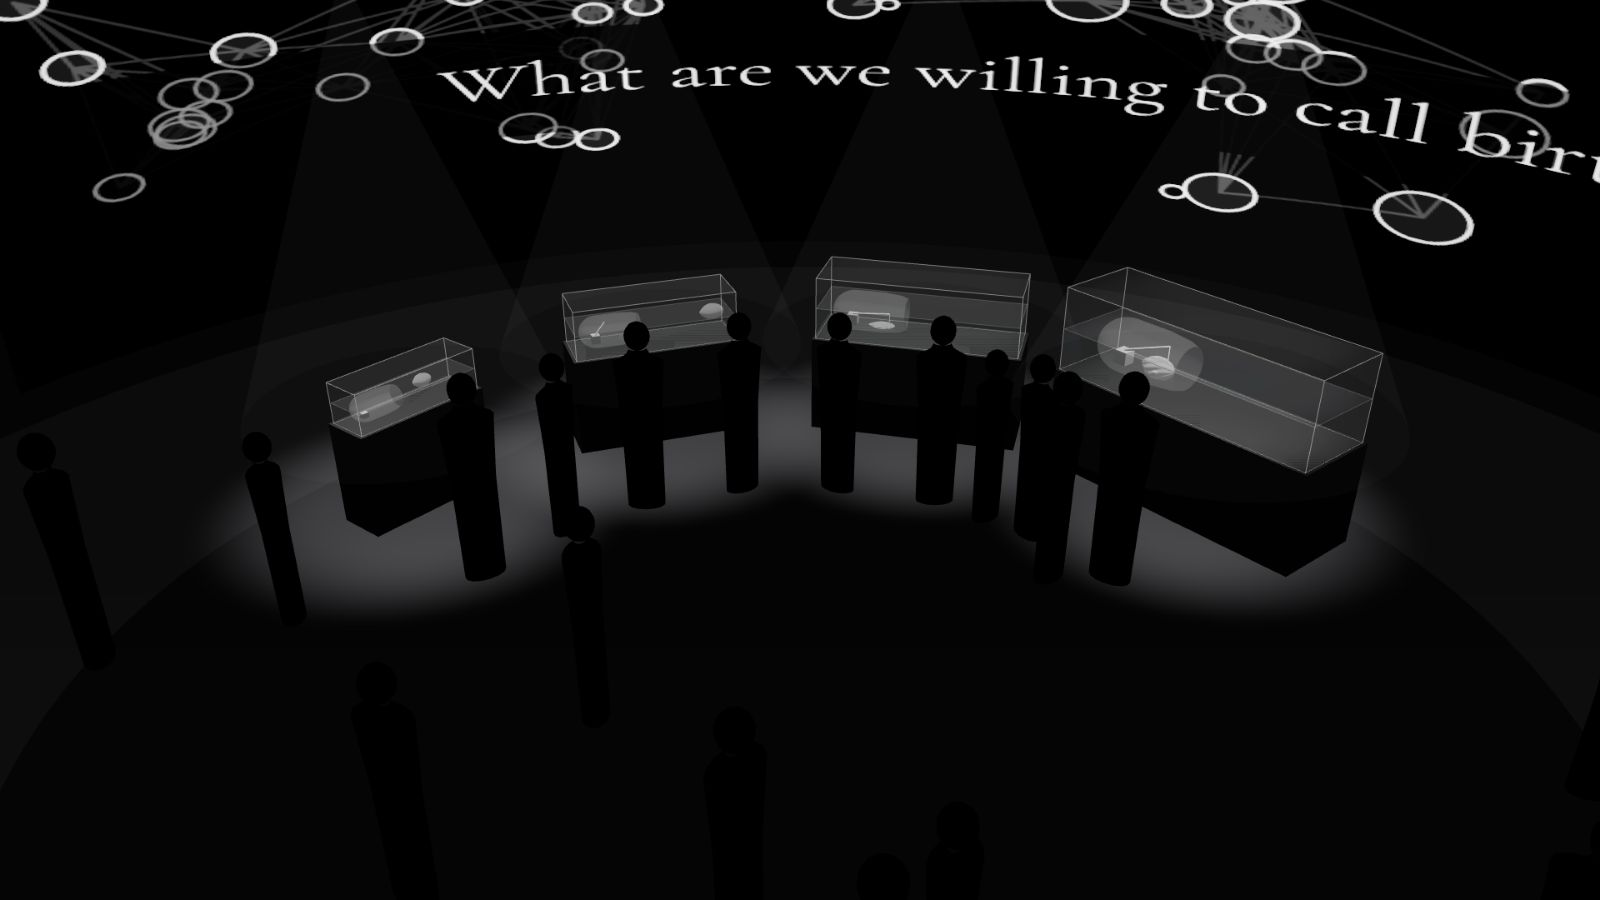
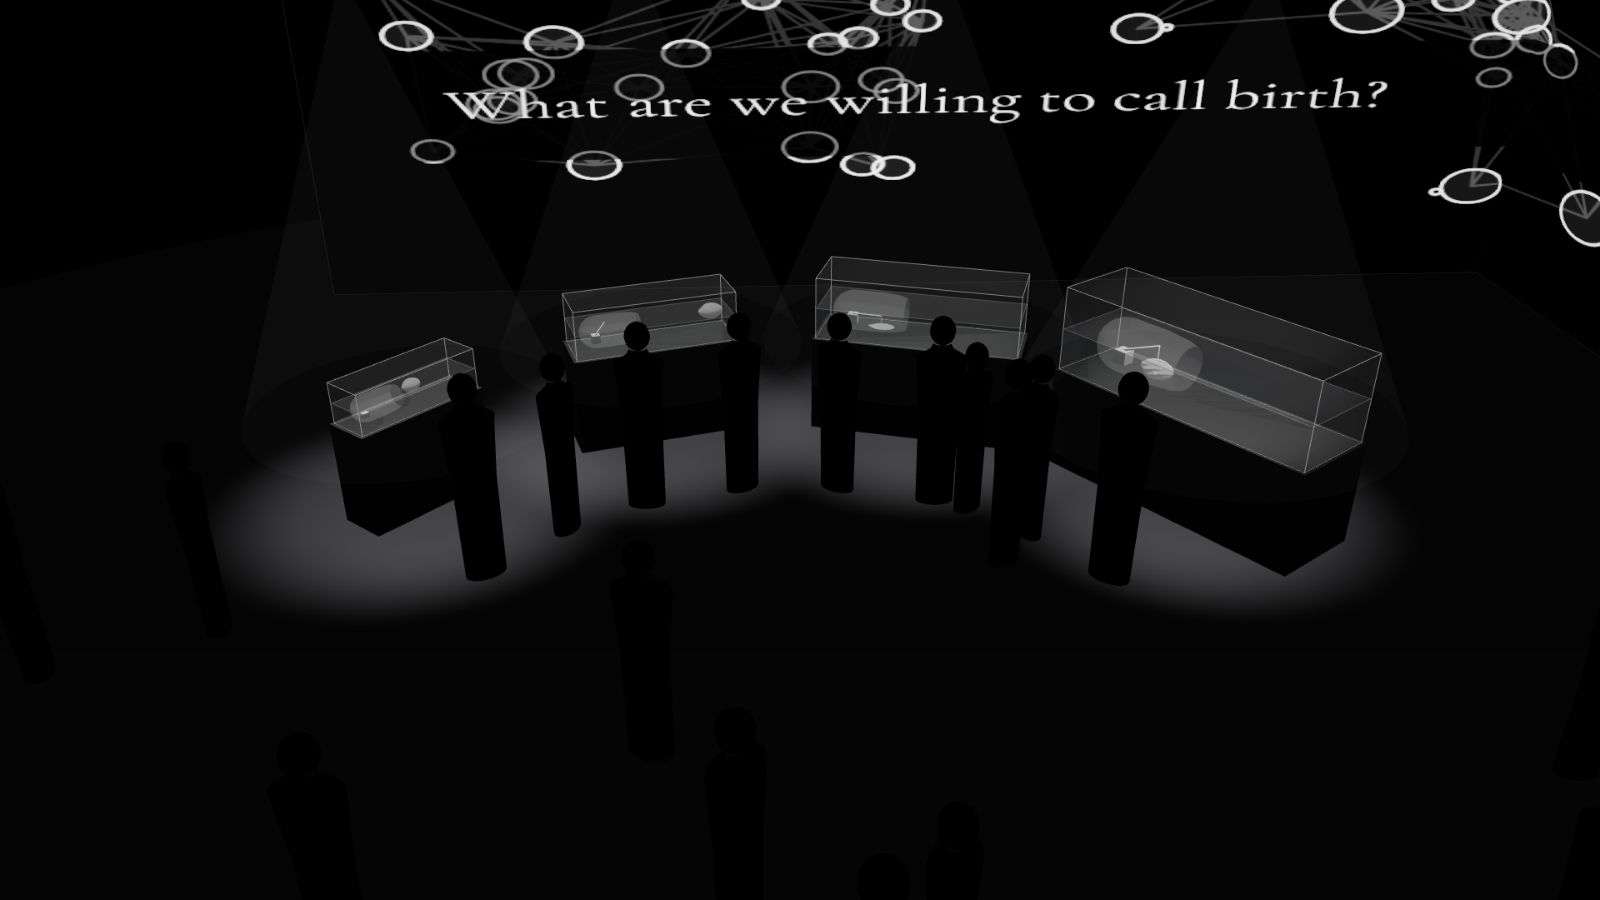
The Exhibition: three flat walls of projection by default, the ring kept as an option (?room=ring)
Claude-Session: https://claude.ai/code/session_015oTFU5ujH7EatHxWGj6prT

diff --git a/exhibition/index.html b/exhibition/index.html
@@ -1,7 +1,7 @@
 <!doctype html>
 <html lang="en"><head><meta charset="utf-8"><meta name="viewport" content="width=device-width,initial-scale=1,viewport-fit=cover">
 <title>Born, Not Made · The exhibition</title>
-<meta name="description" content="Born, Not Made as an exhibition: a dark round room, a ring of projection, four installations from simple to complex, and the people who walk through and argue about what to call birth.">
+<meta name="description" content="Born, Not Made as an exhibition: a dark room, three walls of projection, four installations from simple to complex, and the people who walk through and argue about what to call birth.">
 <link rel="stylesheet" href="https://fonts.googleapis.com/css2?family=Cormorant+Garamond:ital,wght@0,300;0,400;1,400&family=Inter:wght@300;400;500;600&family=JetBrains+Mono:wght@400;500&display=swap">
 <link rel="icon" href="data:,">
 <style>
@@ -53,7 +53,7 @@ html.film #c { object-fit: contain; cursor: none; }
 html.bnm-embed header.top { display: none; }
 </style></head>
 <body>
-<header class="top"><h1>The exhibition</h1><p>Born, Not Made as a room to walk through: a ring of projection, four installations from simple to complex, and the people who argue about what to call what they see.</p><a href="../">Home</a></header>
+<header class="top"><h1>The exhibition</h1><p>Born, Not Made as a room to walk through: three walls of projection, four installations from simple to complex, and the people who argue about what to call what they see.</p><a href="../">Home</a></header>
 <div class="view"><canvas id="c"></canvas></div>
 <div class="bar">
   <button id="play" class="on">Pause</button>
@@ -61,6 +61,7 @@ html.bnm-embed header.top { display: none; }
   <output id="clock">0:00 / 1:04</output>
   <span class="sep"></span><label>View</label>
   <span id="views"></span>
+  <span class="sep"></span><label>Projection</label><button data-r="walls" class="on">Three walls</button><button data-r="ring">Ring</button>
   <span class="sep"></span><label>Show</label>
   <button data-t="voices" class="on">Voices</button><button data-t="path">Path</button><button data-t="labels">Labels</button><button data-t="people" class="on">Visitors</button>
 </div>
@@ -71,21 +72,21 @@ html.bnm-embed header.top { display: none; }
   <p>The robot is there to serve the idea. The final work takes the form of art: an exhibition with a series of installations, which can also become part of a performance. People witness the whole birth of an intelligent robot. Some are moved, or find the newborn cute. Others find the scene unsettling, or read a warning in it. Someone who walks in sure that nothing in a machine is alive may walk out less sure. The work is an open debate about what we are willing to call birth, and what we are willing to call life.</p>
 
   <h2>The setup</h2>
-  <p>A dark round room, about 17 m across. The wall is one ring of projection, 4 m tall, open at one side where people come in. Four glass tanks stand on black plinths in an arc, each under one lamp, from the smallest and simplest to the largest. Each tank holds one parent body and shows one way a new body can leave another. The tanks are the props; the room, the light and the people are the piece.</p>
+  <p>A dark room, about 14 m wide. Three walls carry one continuous projection, 4 m tall; the fourth side is open and people come in there. A full ring of projection around a round room is a second option, and the bar under the view switches between the two. Four glass tanks stand on black plinths in an arc, each under one lamp, from the smallest and simplest to the largest. Each tank holds one parent body and shows one way a new body can leave another. The tanks are the props; the room, the light and the people are the piece.</p>
   <div class="grid" id="cards"></div>
 
   <h2>The path</h2>
   <ol class="path">
-    <li><b>Enter</b>The ring is already alive: on the wall, bodies of many sizes drift, meet and bring out new ones, each stretch of wall in a different way.</li>
+    <li><b>Enter</b>The walls are already alive: bodies of many sizes drift, meet and bring out new ones, each stretch of wall in a different way.</li>
     <li><b>Fill and release</b>The smallest tank. A folded body, made beforehand, takes air and is pushed out. Nothing is printed. Is this already a birth?</li>
     <li><b>Print and release</b>A needle draws a new body in gel inside the parent body. Water pushes the new body out.</li>
     <li><b>Print, fill, grow</b>The printed body leaves folded and wrinkled, swims straight ahead and grows as air opens the folds.</li>
     <li><b>A body that can bear the next</b>The largest tank. The newborn carries parts, and a third body already begins inside the second.</li>
-    <li><b>The ring again</b>People stand in the middle and talk. The question on the wall is the one they are already asking each other.</li>
+    <li><b>The walls again</b>People stand in the middle and talk. The question on the wall is the one they are already asking each other.</li>
   </ol>
 
   <h2>From simple to complex</h2>
-  <p>Life has many ways to bring a new body out of another. The installations answer a few of them in order, starting with the least a machine can do. The wall shows the same ladder as moving drawings, one way of birth for each stretch of the ring.</p>
+  <p>Life has many ways to bring a new body out of another. The installations answer a few of them in order, starting with the least a machine can do. The wall shows the same ladder as moving drawings, one way of birth for each stretch of wall.</p>
   <table>
     <tr><th>In life</th><th>What happens</th><th>On the wall</th><th>In the room</th></tr>
     <tr><td>Division</td><td>One body becomes two of the same size.</td><td>A circle stretches and parts.</td><td>Not built. The software answer: a copy.</td></tr>
@@ -128,9 +129,18 @@ const ptex = new THREE.CanvasTexture(pc); ptex.encoding = THREE.sRGBEncoding; pt
 const ringGeo = new THREE.CylinderGeometry(RR, RR, WH, 160, 1, true, Math.PI / 2 + GAP + Math.PI, Math.PI * 2 - 2 * GAP);
 const ring = new THREE.Mesh(ringGeo, new THREE.MeshBasicMaterial({ map: ptex, side: THREE.BackSide, fog: false })); ring.position.y = WH / 2 + 0.35; S.add(ring);
 const ringBack = new THREE.Mesh(ringGeo, new THREE.MeshBasicMaterial({ color: 0x000000, side: THREE.FrontSide })); ringBack.position.copy(ring.position); ringBack.scale.set(1.004, 1, 1.004); S.add(ringBack);
+/* three flat walls, open toward the entrance at -x: side wall at -z, back wall at +x, side wall at +z. One picture runs across all three. */
+const WX0 = -5, WX1 = 8.4, WZ = 7, Y0 = 0.35, Y1 = 0.35 + WH, LA = WX1 - WX0, LB = 2 * WZ, LT = 2 * LA + LB, ua = LA / LT, ub = (LA + LB) / LT;
+const wq = [[WX0, -WZ, 0], [WX1, -WZ, ua], [WX1, -WZ, ua], [WX1, WZ, ub], [WX1, WZ, ub], [WX0, WZ, 1]], wp = [], wu = [], wi = [];
+for (let k = 0; k < 3; k++) { const a = wq[2 * k], b = wq[2 * k + 1], o = k * 4; wp.push(a[0], Y0, a[1], b[0], Y0, b[1], b[0], Y1, b[1], a[0], Y1, a[1]); wu.push(1 - a[2], 0, 1 - b[2], 0, 1 - b[2], 1, 1 - a[2], 1); wi.push(o, o + 1, o + 2, o, o + 2, o + 3); }
+const wallGeo = new THREE.BufferGeometry(); wallGeo.setAttribute('position', new THREE.Float32BufferAttribute(wp, 3)); wallGeo.setAttribute('uv', new THREE.Float32BufferAttribute(wu, 2)); wallGeo.setIndex(wi);
+const walls = new THREE.Mesh(wallGeo, new THREE.MeshBasicMaterial({ map: ptex, side: THREE.FrontSide, fog: false })); S.add(walls);
+const wallFrame = new THREE.LineSegments(new THREE.EdgesGeometry(wallGeo), new THREE.LineBasicMaterial({ color: 0xffffff, transparent: true, opacity: 0.12 })); S.add(wallFrame);
+let ROOM = Q.get('room') === 'ring' ? 'ring' : 'walls';
+function setRoom(r) { ROOM = r; const w = r === 'walls'; walls.visible = wallFrame.visible = w; ring.visible = ringBack.visible = glow.visible = !w; document.querySelectorAll('[data-r]').forEach((b) => b.classList.toggle('on', b.dataset.r === r)); }
 /* the wall lights the floor a little: a soft pool under the ring */
 const glow = new THREE.Mesh(new THREE.RingGeometry(RR - 3.4, RR, 96, 1), new THREE.MeshBasicMaterial({ color: 0xffffff, transparent: true, opacity: 0.035, blending: THREE.AdditiveBlending, depthWrite: false })); glow.rotation.x = -Math.PI / 2; glow.position.y = 0.004; S.add(glow);
-const wallLight = new THREE.HemisphereLight(0xffffff, 0x000000, 0.1); S.add(wallLight);
+const wallLight = new THREE.HemisphereLight(0xffffff, 0x000000, 0.1); S.add(wallLight); setRoom(ROOM);
 
 /* ---------- the four stations ---------- */
 const ST = [
@@ -252,7 +262,7 @@ function stepWall(dt, T) {
     px.fillStyle = "rgba(255,255,255,0.8)"; for (const e of Z.eggs) { px.beginPath(); px.arc(ox + e.x, e.y, 2.5 + e.t * 0.25, 0, 6.283); px.fill(); }
   }
   /* the question travels slowly around the ring near the end of the tour */
-  const qa = sm(50, 54, T) * (1 - sm(62.5, 64, T)); if (qa > 0.01) { px.fillStyle = `rgba(0,0,0,${0.5 * qa})`; px.fillRect(0, PH * 0.36, PW, PH * 0.28); px.fillStyle = `rgba(255,255,255,${qa})`; px.font = "300 50px 'Cormorant Garamond', Georgia, serif"; px.textAlign = "center"; px.textBaseline = "middle"; for (let i = 0; i < 2; i++) px.fillText("What are we willing to call birth?", PW * (0.27 + 0.46 * i), PH / 2); }
+  const qa = sm(50, 54, T) * (1 - sm(62.5, 64, T)); if (qa > 0.01) { px.fillStyle = `rgba(0,0,0,${0.5 * qa})`; px.fillRect(0, PH * 0.36, PW, PH * 0.28); px.fillStyle = `rgba(255,255,255,${qa})`; px.font = "300 40px 'Cormorant Garamond', Georgia, serif"; px.textAlign = "center"; px.textBaseline = "middle"; for (let i = 0; i < 3; i++) px.fillText("What are we willing to call birth?", PW * (0.164 + 0.336 * i), PH / 2); }
   ptex.needsUpdate = true;
 }
 
@@ -312,6 +322,7 @@ function setView(k) { view = k; orbit.enabled = k !== "tour"; vb.querySelectorAl
 document.addEventListener("click", (e) => { const b = e.target.closest("[data-v]"); if (b) { setView(b.dataset.v); if (b.classList.contains("card")) scrollTo({ top: 0, behavior: "smooth" }); } });
 const show = { voices: true, path: false, labels: false, people: true };
 function syncToggles() { show.path = pathLine.visible; show.labels = labelG.visible; document.querySelectorAll("[data-t]").forEach((b) => b.classList.toggle("on", show[b.dataset.t])); }
+document.querySelectorAll('[data-r]').forEach((b) => b.onclick = () => setRoom(b.dataset.r)); setRoom(ROOM);
 document.querySelectorAll("[data-t]").forEach((b) => b.onclick = () => { const k = b.dataset.t; show[k] = !show[k]; voiceG.visible = show.voices; pathLine.visible = show.path; labelG.visible = show.labels; figG.visible = show.people; if (!show.people) voiceG.visible = false; syncToggles(); });
 if (Q.get("voices") === "0") { show.voices = false; voiceG.visible = false; } if (Q.get("people") === "0") { show.people = false; figG.visible = false; voiceG.visible = false; }
 const tmpA = new THREE.Vector3(), tmpB = new THREE.Vector3();

diff --git a/index.html b/index.html
@@ -1513,7 +1513,7 @@ footer { border-top: 1px solid var(--line); padding: 26px max(16px, env(safe-are
 
 <!-- ============================== THE EXHIBITION ============================== -->
 <section class="tab" id="exhibition">
-  <div class="tabhead"><div><p class="kicker">The Exhibition</p><h2>A room to walk through</h2><p>The work as an exhibition: a dark round room, a ring of projection where bodies of many sizes bring out new ones, four installations from simple to complex, and the people who walk through and argue about what to call what they see. A tour of one minute, on a loop.</p></div><a class="btn" href="exhibition/" target="_blank" rel="noopener">Open full screen</a> <a class="btn" href="exhibition/?film=1" target="_blank" rel="noopener">Film</a></div>
+  <div class="tabhead"><div><p class="kicker">The Exhibition</p><h2>A room to walk through</h2><p>The work as an exhibition: a dark room, three walls of projection where bodies of many sizes bring out new ones, four installations from simple to complex, and the people who walk through and argue about what to call what they see. A tour of one minute, on a loop.</p></div><a class="btn" href="exhibition/" target="_blank" rel="noopener">Open full screen</a> <a class="btn" href="exhibition/?film=1" target="_blank" rel="noopener">Film</a></div>
   <iframe data-src="exhibition/" title="The exhibition: a tour through the room" style="display:block;width:100%;height:2900px;border:0;background:#000"></iframe>
 </section>
 
